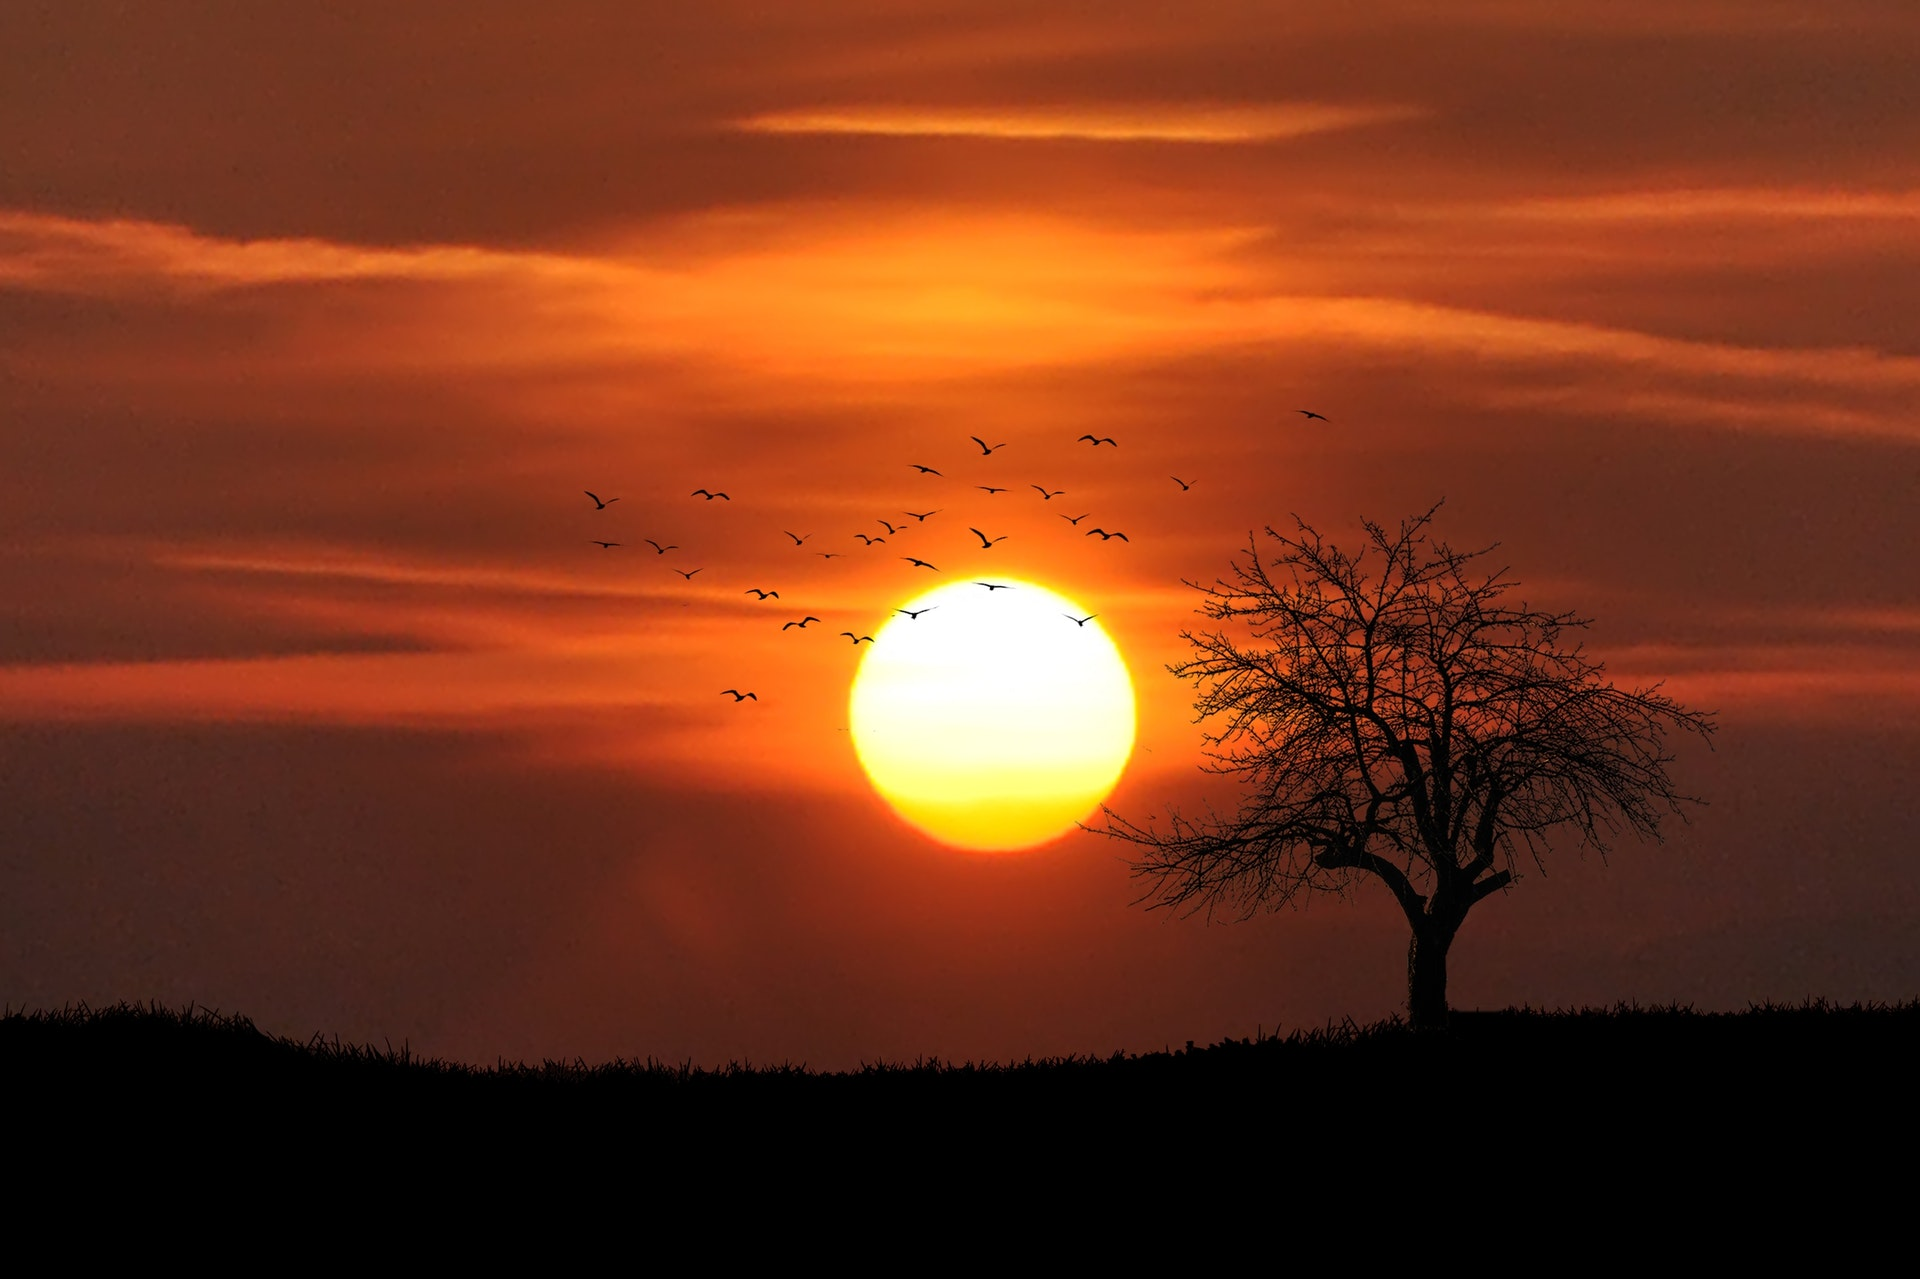
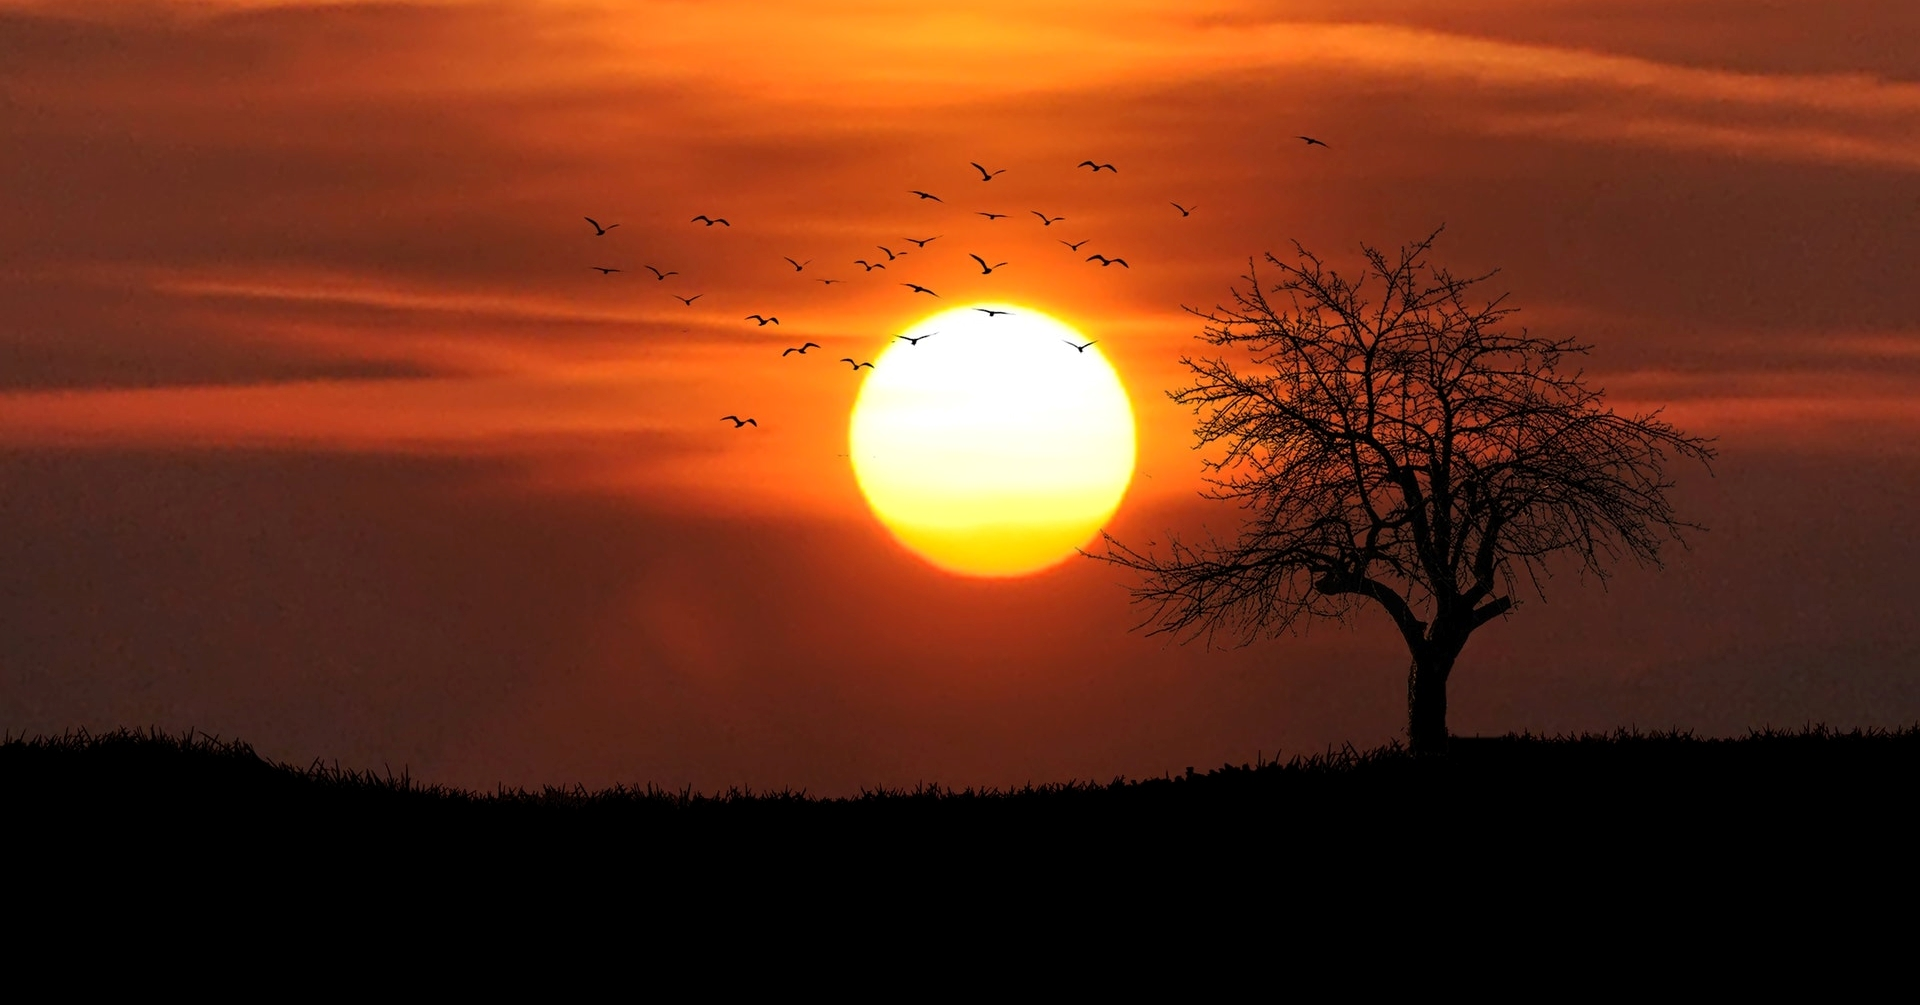
Create Static Dummy Website with Dummy Data

diff --git a/src/Components/WeatherDataInfo/WeatherInfo.jsx b/src/Components/WeatherDataInfo/WeatherInfo.jsx
@@ -1,12 +1,15 @@
 import React from 'react'
 import './Weatherinfo.css'
 export default function WeatherInfo() {
-  return (
-    <div id='weatherInfo'>
-
-      <h1>Haze</h1>
-      <hr />
-    
-    </div>
-  )
+    return (
+        <div id='weatherInfo'>
+            <img style={{filter:"invert()"}} src="https://static.thenounproject.com/png/3541181-200.png" alt="cloud" />
+            <h1 className='display-4'>Haze</h1><br />
+            <h4>Delhi, IN</h4>
+            <p class="fs-4">Temperature &nbsp;&nbsp; 20°C Haze </p>
+            <p class="fs-4">Humidity &nbsp;&nbsp; 20% </p>
+            <p class="fs-4">Wind Speed &nbsp;&nbsp; 20km/h </p>
+            <p class="fs-4">Visibility &nbsp;&nbsp; 3000 mi </p>
+        </div>
+    )
 }

diff --git a/src/Components/TimeBox/TimeBox.jsx b/src/Components/TimeBox/TimeBox.jsx
@@ -4,11 +4,12 @@ export default function TimeBox() {
     return (
         <div id='timeBox' className='container'>
             <div className="clock">
-                <p>01:59:23</p>
-                <p>Tuesday, 19 january 2022</p>
+                <h1 className='display-5'>01:59:23</h1>
+                <h1 className='display-6'>Tuesday, 19 january 2022</h1>
             </div>
             <div className="tempreature">
-                <p>20°</p>
+                {/* <p>20°</p> */}
+                <h1 className="display-1">20° C</h1>
             </div>
         </div>
     )

diff --git a/src/Components/WeatherDataInfo/Weatherinfo.css b/src/Components/WeatherDataInfo/Weatherinfo.css
@@ -1,4 +1,22 @@
-#weatherInfo{
+#weatherInfo {
     display: flex;
     flex-direction: column;
+    align-items: center;
+    justify-content: center;
+    width: 50%;
+    background: rgba(39, 39, 39, 0.5);
+    /* filter: blur(3px); */
+    border-radius: 10px;
+    box-shadow: 0 0 7px 0 rgba(0, 0, 0, 0.41);
+    font-size: 1.5rem;
+    font-weight: 500;
+    text-shadow: 0 0 10px rgba(0, 0, 0, 0.5);
+
+}
+
+hr {
+    margin-top: 1rem;
+    margin-bottom: 1rem;
+    border: 0;
+    border-top: 1px solid rgba(0, 0, 0, 0.1);
 }

diff --git a/src/Components/MainContext/MainContext.css b/src/Components/MainContext/MainContext.css
@@ -3,10 +3,9 @@
     flex-direction: row;
     background-image: url("../../Assets/Sunset.jpg");
     background-repeat: no-repeat;
-    backdrop-filter: blur(3px);
     background-size: cover;
     box-sizing: border-box;
-    width: auto;
-    height: 100vh;
+    /* width: auto; */
+    height: 92vh;
     color: white;
 }

diff --git a/src/Components/TimeBox/TimeBox.css b/src/Components/TimeBox/TimeBox.css
@@ -1,6 +1,8 @@
-#timeBox{
+#timeBox {
     display: flex;
     flex-direction: row;
-    align-items: center;
-    justify-content: space-between;
+    align-items: flex-end;
+    padding-bottom: 10px;
+    justify-content: space-around;
+    text-shadow: 0 0 10px rgba(0, 0, 0, 0.5);
 }

diff --git a/src/App.js b/src/App.js
@@ -5,8 +5,8 @@ import NavBar from './Components/NavBar/NavBar';
 function App() {
   return (
     <div className="App">
-      <NavBar name={"Wheather App"}/>
-      <MainContext/>
+      <NavBar name={"Wheather App"} />
+      <MainContext />
     </div>
   );
 }
